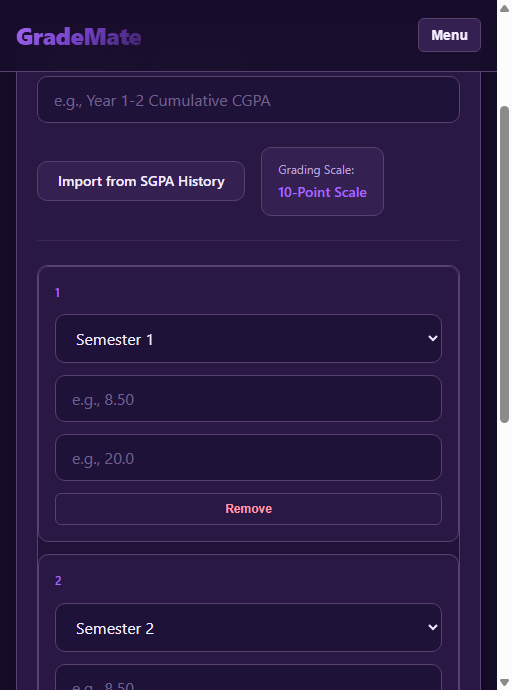
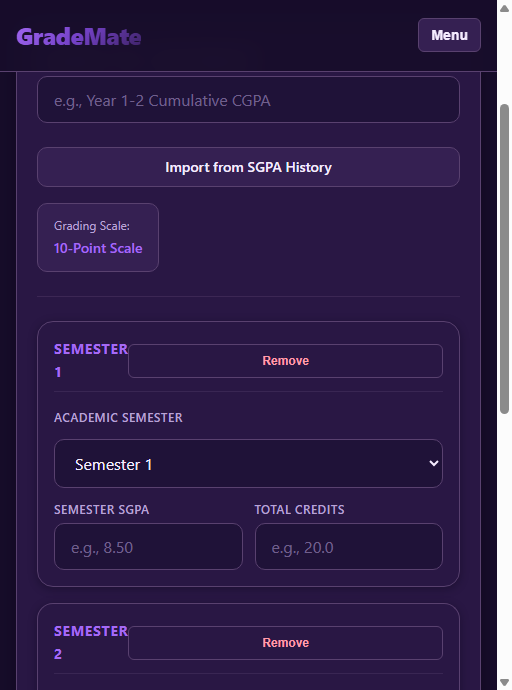
fix: improve CGPA calculator mobile responsiveness

diff --git a/css/views.css b/css/views.css
@@ -753,6 +753,15 @@
   cursor: not-allowed;
 }
 
+/* Mobile-only Semester Card Elements (Hidden on Desktop) */
+.semester-card-header {
+  display: none;
+}
+
+.mobile-field-label {
+  display: none;
+}
+
 /* CGPA 4-Metric Grid */
 .cgpa-metrics-grid {
   grid-template-columns: repeat(4, 1fr);
@@ -764,28 +773,131 @@
   }
 }
 
-/* Mobile Responsive Adaptations for Semester Table */
+/* Mobile Responsive Adaptations for Semester Table & CGPA Controls */
 @media (max-width: 768px) {
+  .top-bar-actions {
+    width: 100%;
+    flex-direction: column;
+    align-items: stretch;
+  }
+
+  .top-bar-actions .btn {
+    width: 100%;
+  }
+
+  .scale-info-badge {
+    justify-content: center;
+  }
+
+  .semester-table-container {
+    background-color: transparent;
+    border: none;
+    overflow: visible;
+    margin-bottom: var(--space-4);
+  }
+
   .semester-table-header {
     display: none;
   }
 
   .semester-row {
-    grid-template-columns: 1fr;
+    display: grid;
+    grid-template-columns: 1fr 1fr;
     gap: var(--space-3);
     padding: var(--space-4);
     background-color: var(--bg-card);
     border: 1px solid var(--border-soft);
-    border-radius: var(--radius-md);
-    margin-bottom: var(--space-3);
+    border-radius: var(--radius-lg);
+    margin-bottom: var(--space-4);
+    box-shadow: var(--shadow-sm);
+    transition: border-color var(--transition-fast), background-color var(--transition-fast);
+  }
+
+  .semester-row:hover {
+    background-color: var(--bg-card);
+    border-color: var(--border-medium);
   }
 
   .semester-row .row-num {
-    text-align: left;
-    font-size: var(--font-size-xs);
+    display: none; /* Desktop column hidden on mobile */
+  }
+
+  .semester-row .col-action-wrap {
+    display: none; /* Desktop column hidden on mobile; action resides in card header */
+  }
+
+  .semester-card-header {
+    display: flex;
+    justify-content: space-between;
+    align-items: center;
+    grid-column: 1 / -1;
+    padding-bottom: var(--space-2);
+    margin-bottom: var(--space-1);
+    border-bottom: 1px solid rgba(89, 65, 111, 0.35);
+  }
+
+  .semester-card-title {
+    font-size: var(--font-size-sm);
+    font-weight: 700;
     color: var(--accent-highlight);
     text-transform: uppercase;
     letter-spacing: 0.05em;
+  }
+
+  .btn-remove-card {
+    background: transparent;
+    border: 1px solid var(--border-soft);
+    color: var(--error-text);
+    border-radius: var(--radius-sm);
+    padding: var(--space-1) var(--space-3);
+    cursor: pointer;
+    font-size: var(--font-size-xs);
+    font-weight: 600;
+    transition: background-color var(--transition-fast), border-color var(--transition-fast);
+    width: auto;
+    min-height: 34px;
+    touch-action: manipulation;
+  }
+
+  .btn-remove-card:hover:not(:disabled) {
+    background-color: var(--error-bg);
+    border-color: var(--error-border);
+  }
+
+  .btn-remove-card:disabled {
+    opacity: 0.35;
+    cursor: not-allowed;
+  }
+
+  .semester-col-select {
+    grid-column: 1 / -1;
+    display: flex;
+    flex-direction: column;
+    gap: var(--space-2);
+  }
+
+  .col-sgpa-wrap {
+    grid-column: 1 / 2;
+    display: flex;
+    flex-direction: column;
+    min-width: 0;
+  }
+
+  .col-credits-wrap {
+    grid-column: 2 / 3;
+    display: flex;
+    flex-direction: column;
+    min-width: 0;
+  }
+
+  .mobile-field-label {
+    display: block;
+    font-size: var(--font-size-xs);
+    font-weight: 600;
+    color: var(--text-muted);
+    margin-bottom: var(--space-1);
+    text-transform: uppercase;
+    letter-spacing: 0.04em;
   }
 
   .cgpa-metrics-grid {

diff --git a/js/views/cgpaView.js b/js/views/cgpaView.js
@@ -154,8 +154,15 @@
       semOptions += `<option value="custom" ${isCustom ? 'selected' : ''}>Custom Semester...</option>`;
 
       row.innerHTML = `
-        <div class="row-num">1</div>
+        <div class="row-num" aria-hidden="true">1</div>
+        <div class="semester-card-header">
+          <span class="semester-card-title">Semester <span class="card-sem-num">1</span></span>
+          <button type="button" class="btn-remove-row btn-remove-card" aria-label="Remove semester">
+            Remove
+          </button>
+        </div>
         <div class="col-input-wrap semester-col-select">
+          <label class="mobile-field-label">Academic Semester</label>
           <select class="form-select semester-name-select" aria-label="Select semester">
             ${semOptions}
           </select>
@@ -168,7 +175,8 @@
             aria-label="Custom semester name"
           >
         </div>
-        <div class="col-input-wrap">
+        <div class="col-input-wrap col-sgpa-wrap">
+          <label class="mobile-field-label">Semester SGPA</label>
           <input 
             type="number" 
             class="form-input semester-sgpa-input" 
@@ -180,7 +188,8 @@
             aria-label="Semester SGPA"
           >
         </div>
-        <div class="col-input-wrap">
+        <div class="col-input-wrap col-credits-wrap">
+          <label class="mobile-field-label">Total Credits</label>
           <input 
             type="number" 
             class="form-input semester-credits-input" 
@@ -211,14 +220,16 @@
         this.clearResultPanel();
       });
 
-      // Bind Remove Button
-      const removeBtn = row.querySelector('.btn-remove-row');
-      removeBtn.addEventListener('click', () => {
-        if (this.rowsContainerEl.children.length > 1) {
-          row.remove();
-          this.reindexRows();
-          this.clearResultPanel();
-        }
+      // Bind Remove Buttons (both mobile card header & desktop table cell)
+      const removeBtns = row.querySelectorAll('.btn-remove-row');
+      removeBtns.forEach((removeBtn) => {
+        removeBtn.addEventListener('click', () => {
+          if (this.rowsContainerEl.children.length > 1) {
+            row.remove();
+            this.reindexRows();
+            this.clearResultPanel();
+          }
+        });
       });
 
       // Clear results on editing to prevent stale results
@@ -241,13 +252,17 @@
       const rowCount = rows.length;
 
       rows.forEach((row, idx) => {
+        const rowNumber = idx + 1;
         const numEl = row.querySelector('.row-num');
-        if (numEl) numEl.textContent = String(idx + 1);
+        if (numEl) numEl.textContent = String(rowNumber);
 
-        const removeBtn = row.querySelector('.btn-remove-row');
-        if (removeBtn) {
-          removeBtn.disabled = rowCount <= 1;
-        }
+        const cardNumEl = row.querySelector('.card-sem-num');
+        if (cardNumEl) cardNumEl.textContent = String(rowNumber);
+
+        const removeBtns = row.querySelectorAll('.btn-remove-row');
+        removeBtns.forEach((btn) => {
+          btn.disabled = rowCount <= 1;
+        });
       });
     },
 

diff --git a/index.html b/index.html
@@ -7,10 +7,10 @@
   <meta name="description" content="A modern, sophisticated academic calculator and grade-management web application for college students.">
 
   <!-- Royal Violet Design System Stylesheets -->
-  <link rel="stylesheet" href="css/main.css">
-  <link rel="stylesheet" href="css/layout.css">
-  <link rel="stylesheet" href="css/components.css">
-  <link rel="stylesheet" href="css/views.css">
+  <link rel="stylesheet" href="css/main.css?v=1.0.5">
+  <link rel="stylesheet" href="css/layout.css?v=1.0.5">
+  <link rel="stylesheet" href="css/components.css?v=1.0.5">
+  <link rel="stylesheet" href="css/views.css?v=1.0.5">
 </head>
 <body>
 
@@ -627,18 +627,18 @@
   <!-- =======================================================================
        Application Scripts (Native Modular Architecture, Zero Dependencies)
        ======================================================================= -->
-  <script src="js/utils/dom.js"></script>
-  <script src="js/utils/time.js"></script>
-  <script src="js/core/storage.js"></script>
-  <script src="js/core/calculations.js"></script>
-  <script src="js/core/state.js"></script>
-  <script src="js/views/onboardingView.js"></script>
-  <script src="js/views/dashboardView.js"></script>
-  <script src="js/views/sgpaView.js"></script>
-  <script src="js/views/cgpaView.js"></script>
-  <script src="js/views/targetView.js"></script>
-  <script src="js/views/historyView.js"></script>
-  <script src="js/views/settingsView.js"></script>
-  <script src="js/app.js"></script>
+  <script src="js/utils/dom.js?v=1.0.5"></script>
+  <script src="js/utils/time.js?v=1.0.5"></script>
+  <script src="js/core/storage.js?v=1.0.5"></script>
+  <script src="js/core/calculations.js?v=1.0.5"></script>
+  <script src="js/core/state.js?v=1.0.5"></script>
+  <script src="js/views/onboardingView.js?v=1.0.5"></script>
+  <script src="js/views/dashboardView.js?v=1.0.5"></script>
+  <script src="js/views/sgpaView.js?v=1.0.5"></script>
+  <script src="js/views/cgpaView.js?v=1.0.5"></script>
+  <script src="js/views/targetView.js?v=1.0.5"></script>
+  <script src="js/views/historyView.js?v=1.0.5"></script>
+  <script src="js/views/settingsView.js?v=1.0.5"></script>
+  <script src="js/app.js?v=1.0.5"></script>
 </body>
 </html>
